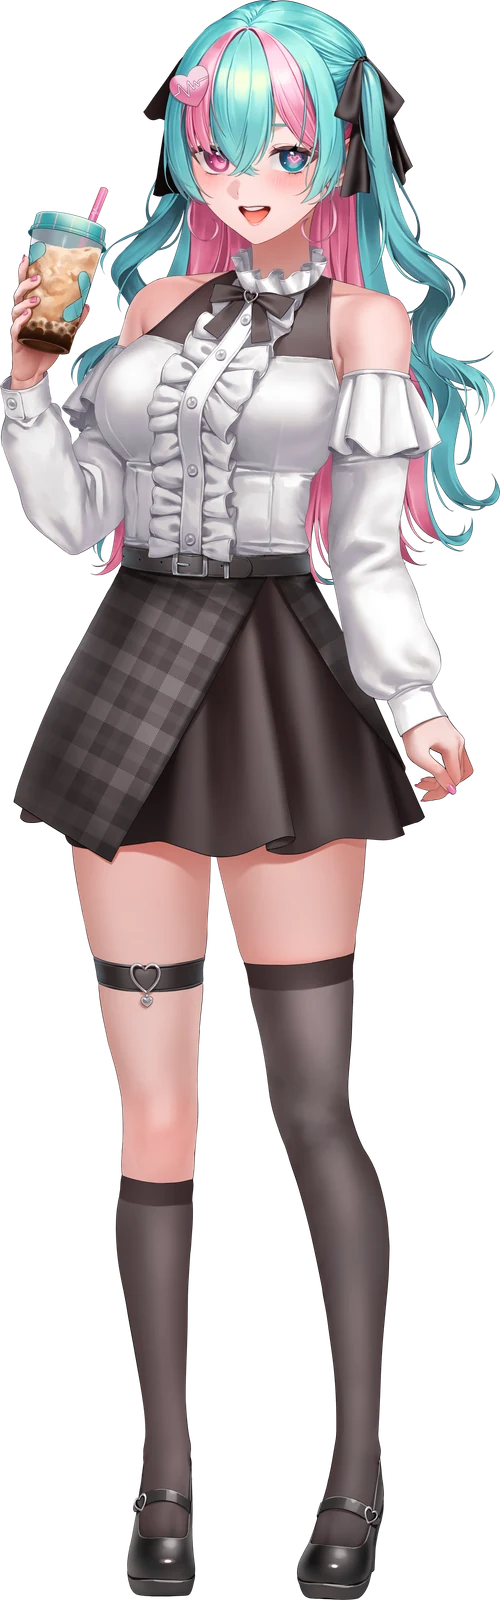
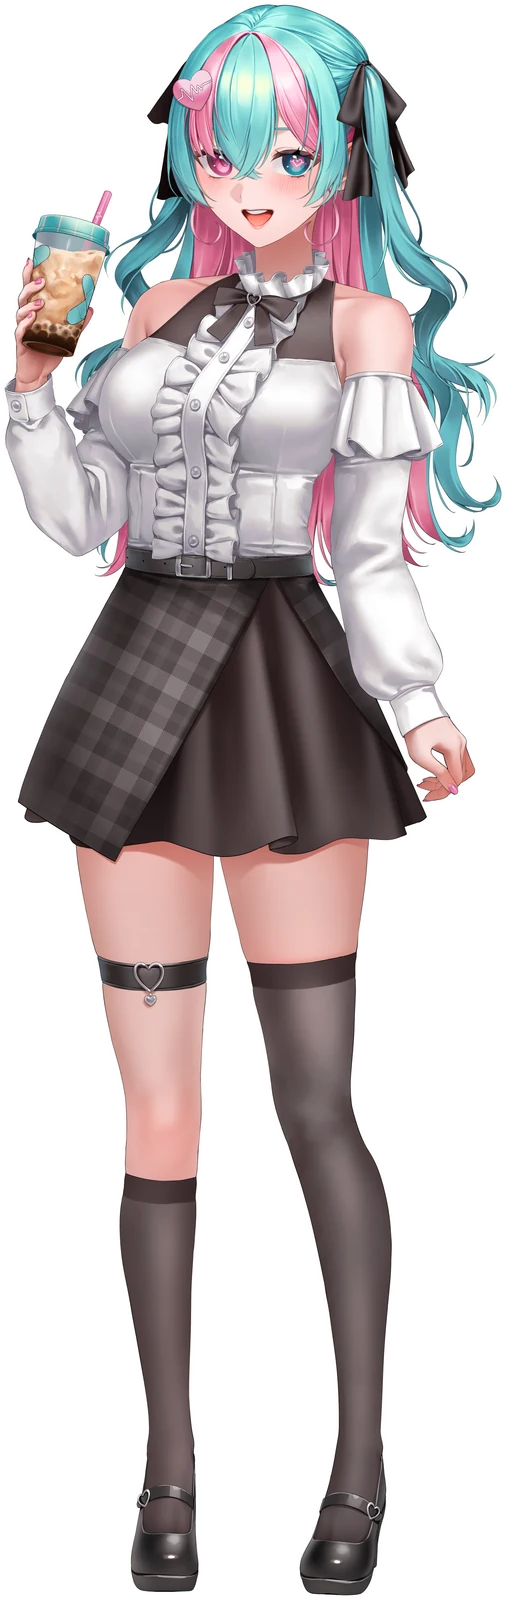
update kv

diff --git a/src/components/cafe/board/CafeOverview.tsx b/src/components/cafe/board/CafeOverview.tsx
@@ -220,7 +220,7 @@ export function CafeOverview({
                 <ProtectedImage
                   src={cutout}
                   alt={cafe.heroAlt ?? cafe.title}
-                  className="h-[min(440px,70vw)] w-auto max-w-full object-contain min-[1100px]:h-[720px] min-[1100px]:max-w-none [filter:drop-shadow(3px_0_0_#f4ebe3)_drop-shadow(-3px_0_0_#f4ebe3)_drop-shadow(0_3px_0_#f4ebe3)_drop-shadow(0_-3px_0_#f4ebe3)_drop-shadow(8px_14px_10px_rgba(0,0,0,.55))]"
+                  className="h-[min(440px,70vw)] w-auto max-w-full object-contain min-[1100px]:h-[720px] min-[1100px]:max-w-none [filter:drop-shadow(8px_14px_10px_rgba(0,0,0,.55))]"
                 />
                 {/* Same tag twice so phone and desktop can be placed independently. */}
                 <p className={cn(HAND, TARGET_TAG, TARGET_TAG_MOBILE, "min-[1100px]:hidden")}>
